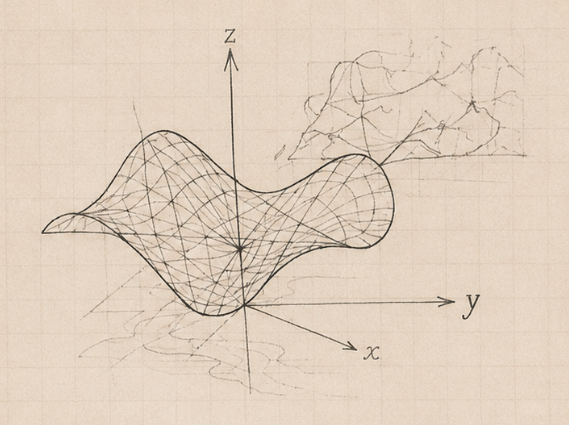
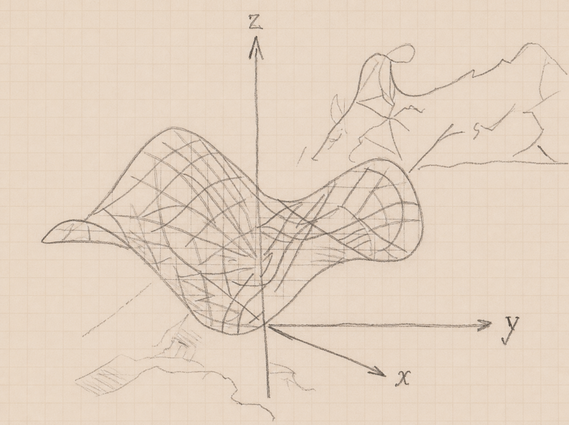
Refresh book cover artwork and typography

diff --git a/pandoc/book-title.tex b/pandoc/book-title.tex
@@ -6,6 +6,10 @@
 \definecolor{PolarisInk}{HTML}{332F2A}
 \definecolor{PolarisGrid}{HTML}{A9947E}
 
+\newfontfamily\PolarisTitleFont[
+  Path=fonts/playfair-display/
+]{PlayfairDisplay.ttf}
+
 \makeatletter
 
 \providecommand{\subtitle}[1]{}
@@ -55,7 +59,7 @@
 
     \node[anchor=south west,inner sep=0]
       at ($(current page.south west)+(9mm,9mm)$)
-      {\includegraphics[width=0.39\paperwidth]{images/book-cover-bottom-left-hand-drawn.png}};
+      {\includegraphics[width=0.39\paperwidth]{images/book-cover-bottom-left-title.png}};
 
     \node[anchor=south east,inner sep=0]
       at ($(current page.south east)+(-9mm,9mm)$)
@@ -73,7 +77,7 @@
 
     \begin{minipage}{0.52\paperwidth}
       \centering
-      {\rmfamily\bfseries\fontsize{46}{54}\selectfont
+      {\PolarisTitleFont\fontsize{46}{54}\selectfont
        \MakeUppercase{\@title}\par}
     \end{minipage}
 